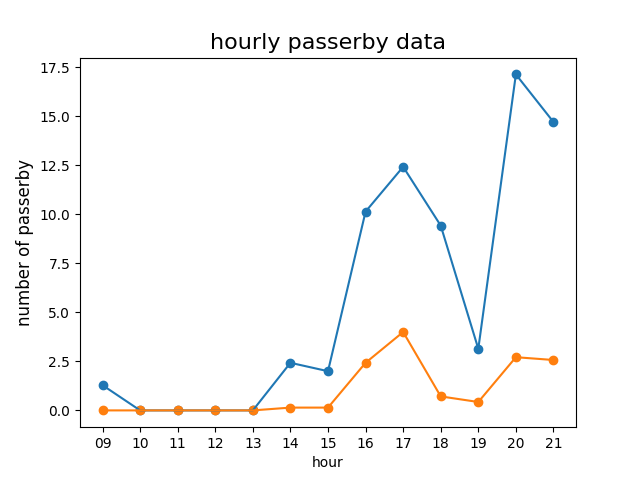
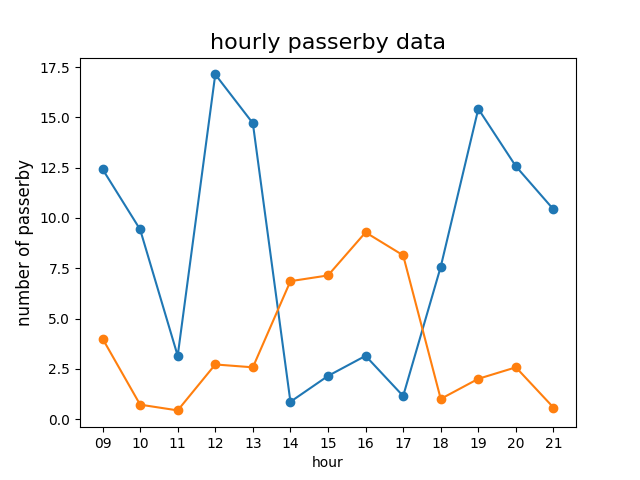
Bug fix: actually hour_index has index + 8

diff --git a/chapter2/1_life_data/3_processing_life_data/2-1-08-example.py b/chapter2/1_life_data/3_processing_life_data/2-1-08-example.py
@@ -18,7 +18,7 @@ with open('passby_data.csv', 'r') as f :
 # -------------------------------------------------------------------------
 
 day_title = ['MON', 'TUE', 'WED', 'THR', 'FRI', 'SAT', 'SUN']     # 요일 제목
-hour_title = ['09', '10', '11', '12', '13', '14','15', '16', '17', '18', '19', '20','21']
+hour_title = ['09', '10', '11', '12', '13', '14', '15', '16', '17', '18', '19', '20','21']
 
 
 # 시간대별로 주간 평균값 구하기
@@ -28,8 +28,8 @@ for hour_index, hour_value in enumerate(hour_title) :                          #
     under30_day_sum = over40_day_sum = 0                                  # 시간대별 합을 구하기 위해 0으로 초기화
     # 각 시간대 주간 총합
     for day_index, day_value in enumerate(day_title) :                      # 일주일, 즉 7번 반복하기
-        under30_day_sum += int(a[day_index][hour_index]['ynum'])  # 요일별 + 시간대별 행인수 누적하기
-        over40_day_sum += int(a[day_index][hour_index]['num']) - int(a[day_index][hour_index]['ynum'])  # 전체 행인수에서 30대 이하를 빼면? 40세 이상 행인수
+        under30_day_sum += int(a[day_index][hour_index+8]['ynum'])  # 요일별 + 시간대별 행인수 누적하기
+        over40_day_sum += int(a[day_index][hour_index+8]['num']) - int(a[day_index][hour_index+8]['ynum'])  # 전체 행인수에서 30대 이하를 빼면? 40세 이상 행인수
 
     avgh_under30.append(under30_day_sum/7)                      # 시간대 30대 이하 행인수 평균 구하기
     avgh_over40.append(over40_day_sum/7)                      # 시간대 40세 이상 행인수 평균 구하기

diff --git a/chapter2/1_life_data/3_processing_life_data/README.md b/chapter2/1_life_data/3_processing_life_data/README.md
@@ -31,7 +31,7 @@ Review code and trouble shootings
 
 오전 9시 부터 오후 9시의 경우는 hour_title array를 실제 '09' ~ '21'로 해주면 된다.
 왜냐하면 for문은 이 hour_title의 갯수만큼 돌게 enumrate 함수를 사용했기 떄문이다.
-단, 이건 내가 refactoring 한 코드의 경우 동작하기 때문에 기존 책의 예제에서 수정하려면 Range (0, 13)로 범위도 바꿔야 할 것이다.
+단, 이건 내가 refactoring 한 코드의 경우 동작하기 때문에 기존 책의 예제에서 수정하려면 Range (9, 21)로 범위도 바꿔야 할 것이다.
 
 ``` python
 hour_title = ['09', '10', '11', '12', '13', '14','15', '16', '17', '18', '19', '20','21']
